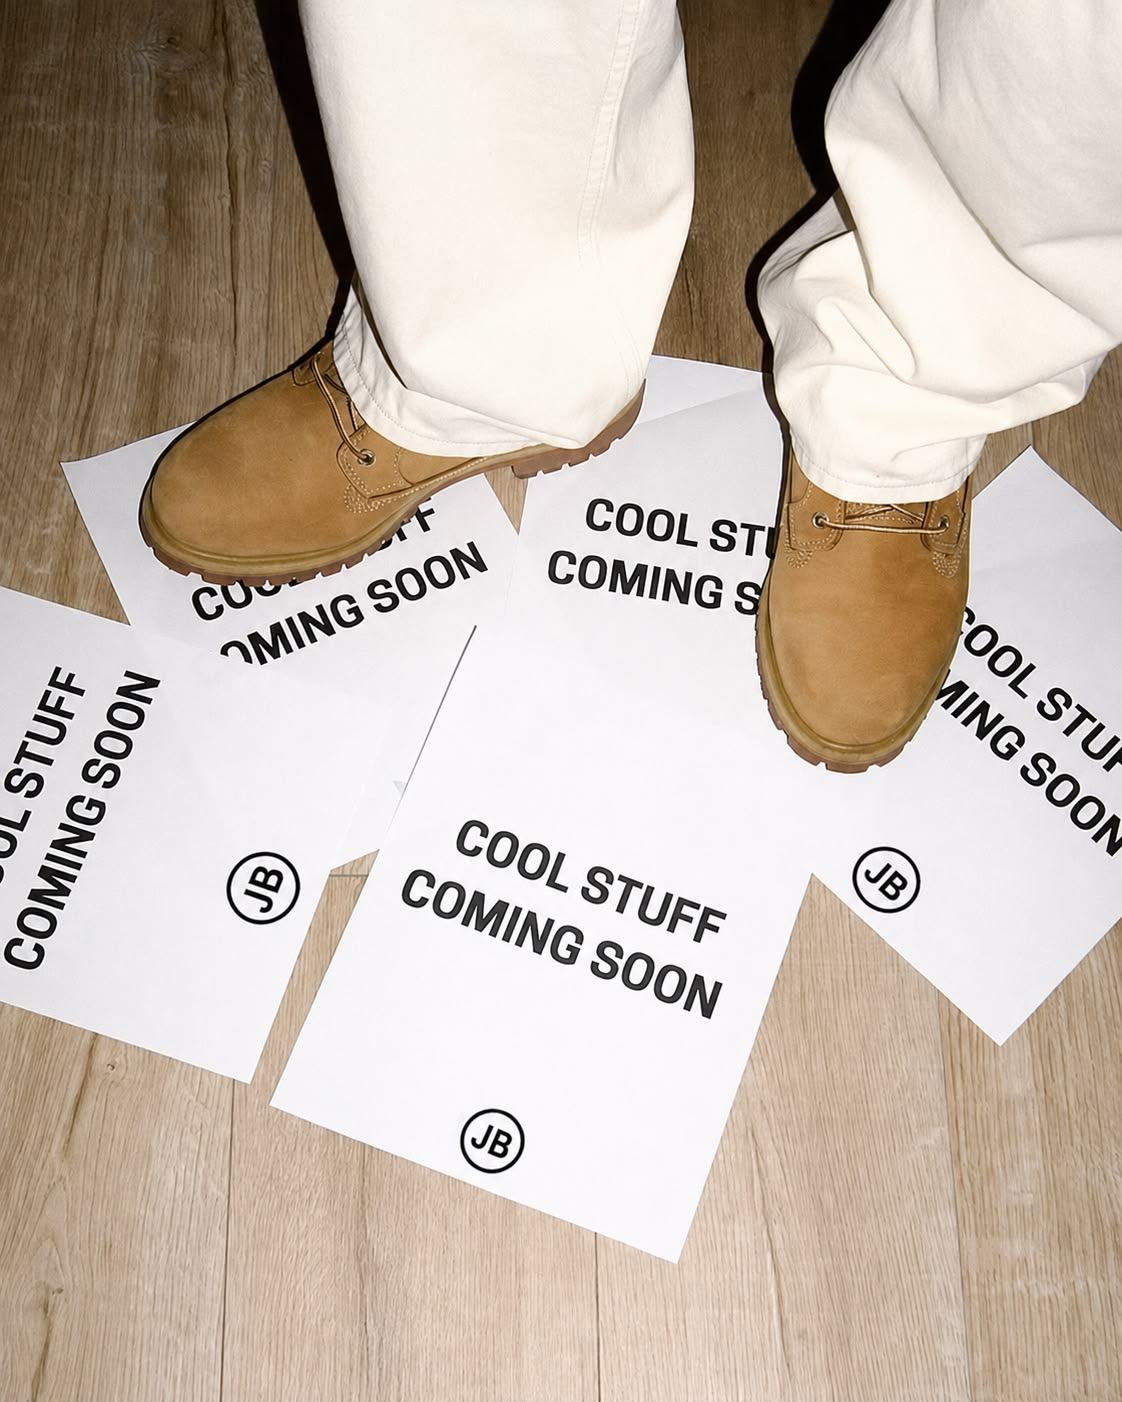
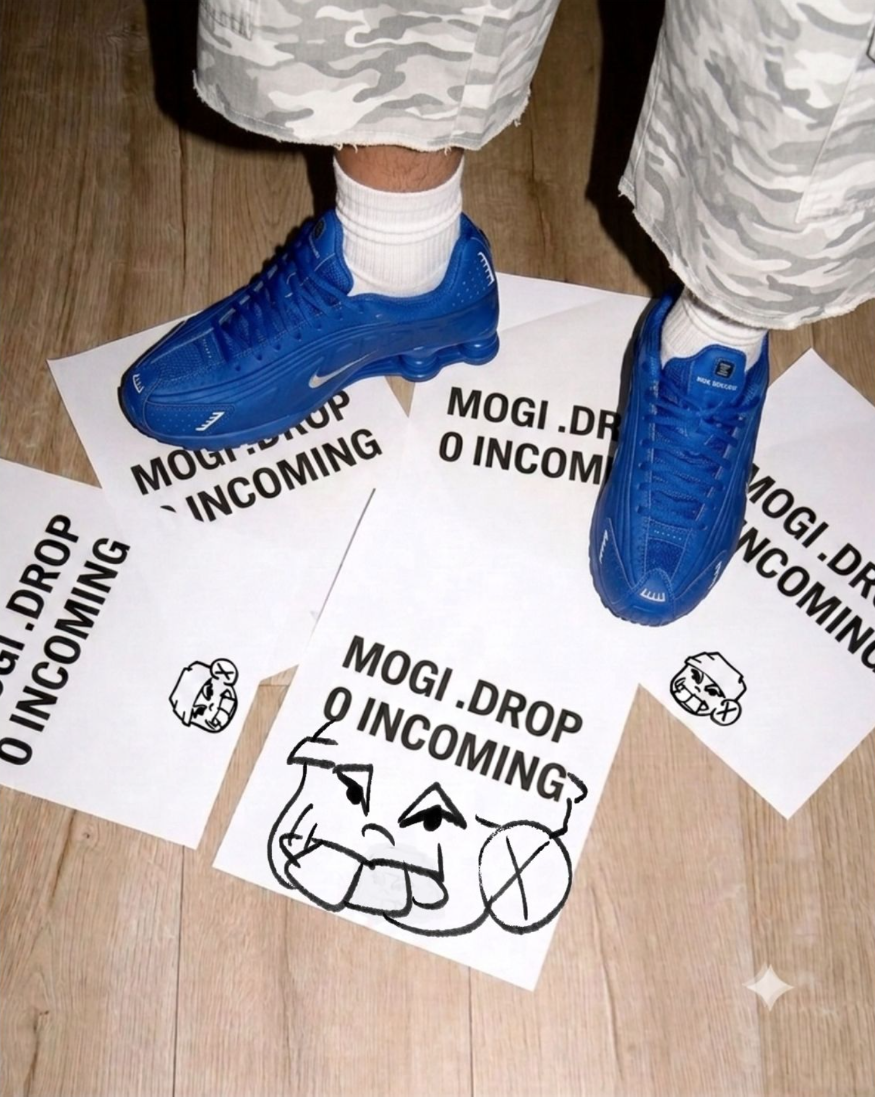
Live screen art + closed bg polish, full-white floating tees
- Live gate: hand-drawn livetotal art with animated Hand.png ENTER layer
- Click target limited to the hand+ENTER region
- Floating tees: full opacity, larger on desktop
- Closed bg: updated photo, standard cover fill
- Drop unused live-title/enter-btn/closed-sub CSS

diff --git a/app/globals.css b/app/globals.css
@@ -43,7 +43,6 @@ body {
 /* floating shirt — outer drifts, inner spins in 3D (front ↔ back) */
 .tee-float {
   position: absolute;
-  opacity: 0.5;
   filter: blur(4px); /* teaser: silhouette reads, print doesn't */
   /* all shirts orbit together — one shared phase, carousel feel */
   animation: tee-carousel 16s linear infinite;
@@ -52,6 +51,10 @@ body {
 @keyframes tee-carousel {
   from { transform: rotate(0turn)  translateX(46px) rotate(0turn); }
   to   { transform: rotate(1turn)  translateX(46px) rotate(-1turn); }
+}
+/* desktop: shirts read a touch bigger; scale composes with the carousel transform */
+@media (min-width: 480px) {
+  .tee-float { scale: 1.18; }
 }
 .tee-float-3d {
   position: relative;
@@ -160,22 +163,6 @@ body {
   to   { transform: translateY(0); opacity: 1; }
 }
 
-.enter-btn {
-  font-family: var(--font-sans);
-  font-size: 12px;
-  font-weight: 700;
-  letter-spacing: 0.2em;
-  padding: 15px 48px;
-  text-transform: uppercase;
-  background: var(--ink);
-  color: #fff;
-  border: 1px solid var(--ink);
-  border-radius: 0;
-  cursor: pointer;
-  transition: background 0.15s, color 0.15s;
-}
-.enter-btn:hover { background: #333; }
-
 @keyframes btn-shake {
   0%,100% { transform: translateX(0); }
   15%  { transform: translateX(-6px) rotate(-1deg); }
@@ -183,14 +170,6 @@ body {
   45%  { transform: translateX(-4px); }
   60%  { transform: translateX(4px); }
   75%  { transform: translateX(-2px); }
-}
-
-.closed-sub {
-  font-size: 10px;
-  font-weight: 700;
-  letter-spacing: 0.15em;
-  color: var(--grey);
-  text-transform: uppercase;
 }
 
 /* ─── LIVE SCREEN ───────────────────────────────────── */
@@ -204,26 +183,41 @@ body {
   justify-content: center;
   gap: 28px;
 }
-.live-title {
-  font-family: var(--font-head);
-  font-size: clamp(56px, 17vw, 110px);
-  font-weight: 900;
-  letter-spacing: -0.02em;
-  color: var(--green);
-  text-shadow: 0 0 24px rgba(29,158,94,0.4);
-  animation: live-pulse 1.8s ease-in-out infinite;
-  text-transform: uppercase;
+/* hand-drawn art stack — base composition + hand layer on the same canvas */
+.live-art {
+  position: relative;
+  width: min(94vw, 760px);
 }
-@keyframes live-pulse {
-  0%,100% { text-shadow: 0 0 14px rgba(29,158,94,0.35); }
-  50%      { text-shadow: 0 0 38px rgba(29,158,94,0.75); }
+.live-art img {
+  width: 100%;
+  display: block;
+  user-select: none;
 }
-.live-sub {
-  font-size: 11px;
-  font-weight: 700;
-  letter-spacing: 0.2em;
-  color: var(--grey);
-  text-transform: uppercase;
+/* the hand+ENTER layer — same canvas as the base, so inset:0 lines it up.
+   gentle drift+tilt gives the "it's alive" vibe */
+.live-hand {
+  position: absolute;
+  inset: 0;
+  pointer-events: none; /* visual layer only — the hotspot below takes the click */
+  animation: hand-alive 3.4s ease-in-out infinite;
+}
+/* invisible click target over the hand+ENTER region of the canvas */
+.live-hotspot {
+  position: absolute;
+  left: 37%;
+  top: 40%;
+  width: 30%;
+  height: 29%;
+  padding: 0;
+  border: 0;
+  background: none;
+  cursor: pointer;
+}
+@keyframes hand-alive {
+  0%, 100% { transform: translate(0, 0) rotate(0deg); }
+  25%      { transform: translate(5px, -7px) rotate(1.3deg); }
+  50%      { transform: translate(-4px, 5px) rotate(-1.1deg); }
+  75%      { transform: translate(6px, 3px) rotate(0.9deg); }
 }
 
 /* ─── MARKETPLACE ───────────────────────────────────── */

diff --git a/components/LiveView.jsx b/components/LiveView.jsx
@@ -3,22 +3,23 @@ import FloatingTees from './FloatingTees'
 import { playClick } from '../lib/audio'
 
 // Shown when the site status is 'open' — the LIVE gate before the shop.
+// livetotal.png is the full hand-drawn composition; Hand.png is the same
+// canvas with only the hand+ENTER layer, stacked on top so it can move.
 export default function LiveView({ onEnter }) {
   return (
     <>
       <FloatingTees />
       <div className="live-screen">
-        <div className="closed-sub">mogi · drop 0</div>
-        <h1 className="live-title">LIVE</h1>
-        <div className="closed-sub" style={{ color: 'var(--green)', fontSize: 10 }}>
-          20 pieces · no restock
+        <div className="live-art">
+          <img src="/pics/livetotal.png" alt="LIVE!! — drop 0, 1 & only" draggable="false" />
+          <img className="live-hand" src="/pics/Hand.png" alt="" draggable="false" />
+          {/* click target = just the hand+ENTER region of the canvas, in % so it scales everywhere */}
+          <button
+            className="live-hotspot"
+            onClick={() => { playClick(); onEnter() }}
+            aria-label="Enter the drop"
+          />
         </div>
-        <button
-          className="enter-btn"
-          onClick={() => { playClick(); onEnter() }}
-        >
-          ENTER THE DROP
-        </button>
       </div>
     </>
   )